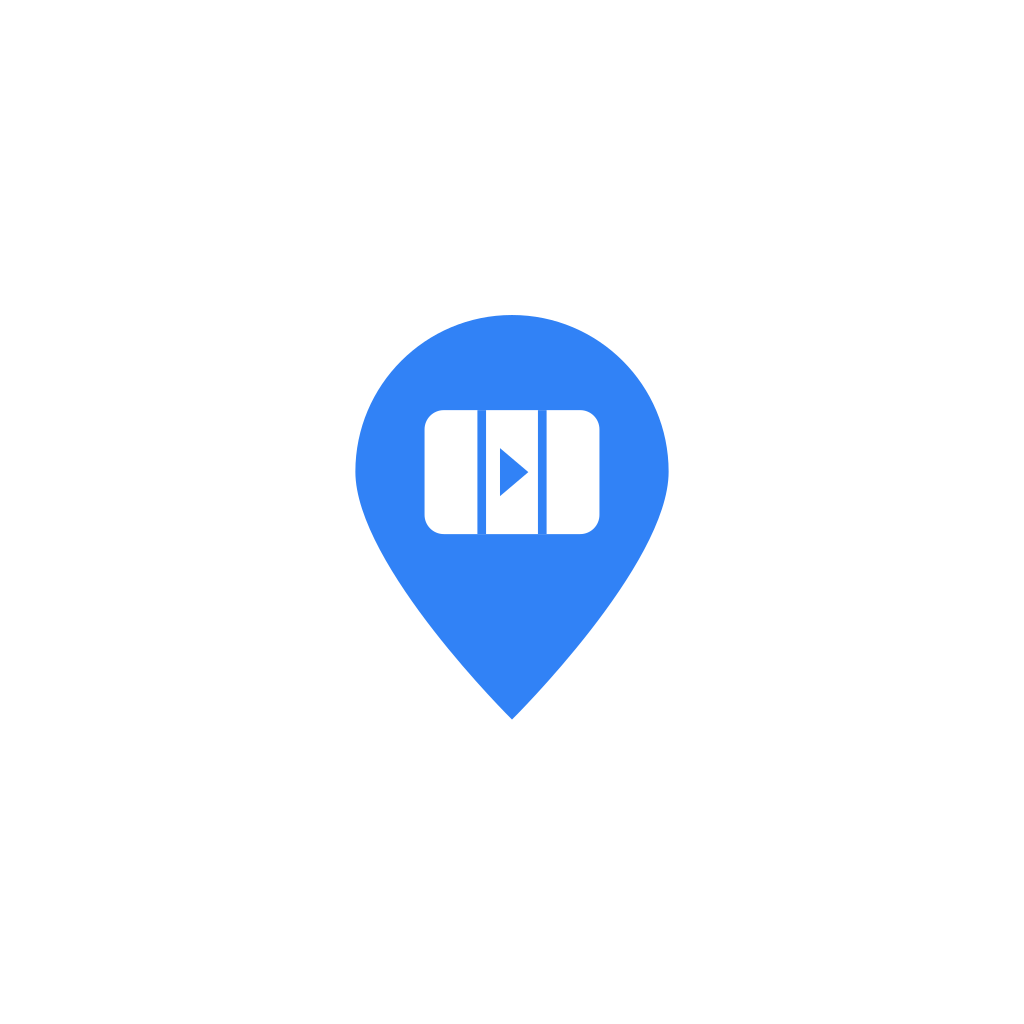
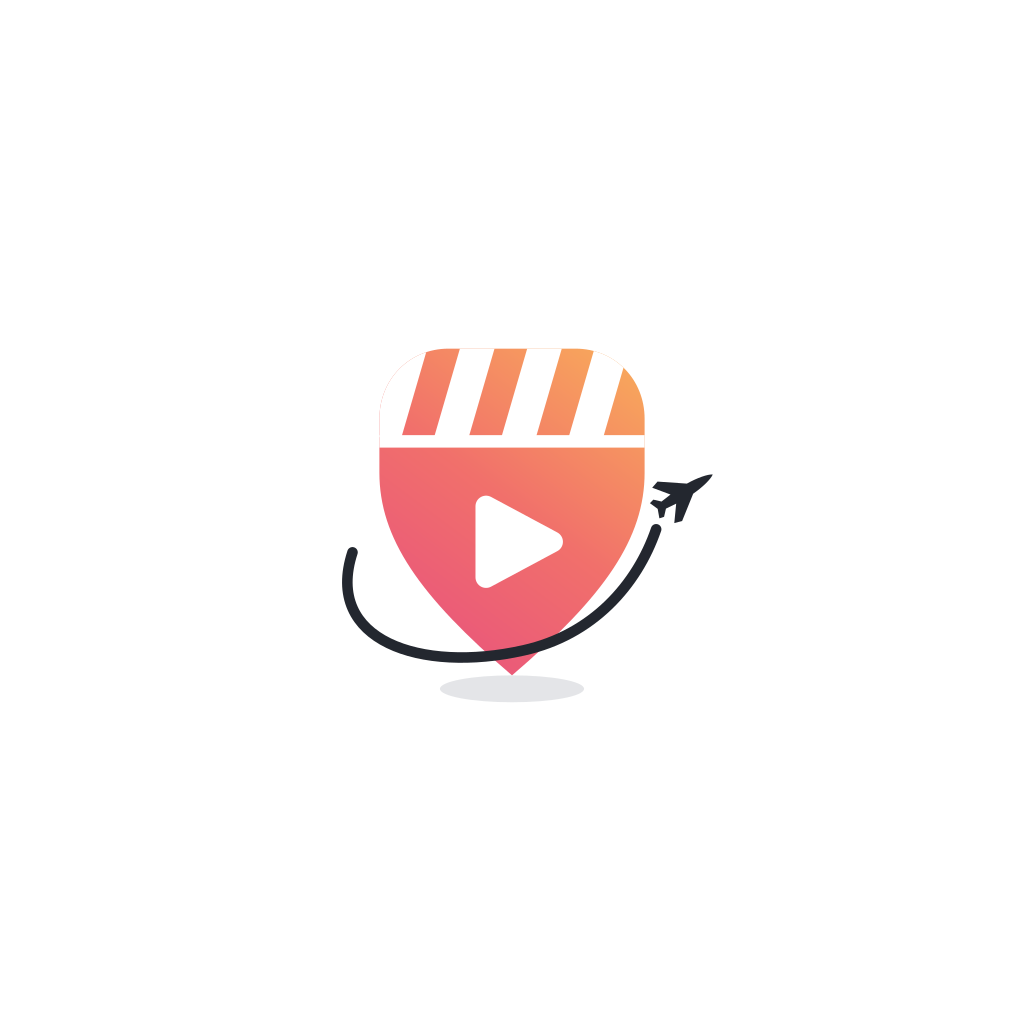
feat(brand): 로고 원본 반영과 브랜드 색 적용
- assets/logo.svg: 클래퍼가 얹힌 핀 + 재생 + 비행기 궤적을 벡터로 재현
  - 슬레이트가 앉도록 핀 윗변을 평평하게 깎고, 클립으로 스트라이프를 잘라냄
- 앱 안 마크(Logo.tsx)도 같은 도형·같은 그라데이션으로 맞춤
- 포인트 색을 토스 블루에서 로고 코랄(#F1706B)로 교체, 회색 위계는 유지
- 로그인 화면에 마크 + ReelSpot 워드마크 + 영문 태그라인 배치

Changed region(s): [[0.3125, 0.2812, 0.6875, 0.7188], [0.3438, 0.5938, 0.375, 0.625]]

diff --git a/src/components/Logo.tsx b/src/components/Logo.tsx
@@ -1,22 +1,74 @@
-import Svg, { Path, Rect } from 'react-native-svg';
+import Svg, {
+  ClipPath,
+  Defs,
+  Ellipse,
+  G,
+  LinearGradient,
+  Path,
+  Rect,
+  Stop,
+} from 'react-native-svg';
 
-import { colors } from '@/theme/theme';
+const PIN =
+  'M512 852C706 686 788 566 788 430L788 318C788 236 726 172 644 172L380 172C298 172 236 236 236 318L236 430C236 566 318 686 512 852Z';
+
+const PLANE =
+  'M110 0C96 -10 60 -18 20 -20L-60 -78L-86 -70L-46 -18L-84 -14L-104 -34L-120 -30L-108 0L-120 30L-104 34L-84 14L-46 18L-86 70L-60 78L20 20C60 18 96 10 110 0Z';
+
+const STRIPES = [
+  'M210 356H282L342 150H270Z',
+  'M350 356H422L482 150H410Z',
+  'M490 356H562L622 150H550Z',
+  'M630 356H702L762 150H690Z',
+];
 
 /**
- * 릴스팟 마크. assets/logo.svg 와 같은 도형을 그린다.
+ * 릴스팟 마크. assets/logo.svg 와 같은 도형이다.
  * 둘 중 하나를 고치면 나머지도 같이 고칠 것.
  */
-export function Logo({ size = 64, color = colors.accent }: { size?: number; color?: string }) {
+export function Logo({ size = 96 }: { size?: number }) {
   return (
     <Svg width={size} height={size} viewBox="0 0 1024 1024" accessibilityLabel="릴스팟">
+      <Defs>
+        <LinearGradient id="pinGradient" x1="280" y1="840" x2="760" y2="200" gradientUnits="userSpaceOnUse">
+          <Stop offset="0" stopColor="#E8517E" />
+          <Stop offset="0.52" stopColor="#F1706B" />
+          <Stop offset="1" stopColor="#F8A85B" />
+        </LinearGradient>
+        <ClipPath id="pinClip">
+          <Path d={PIN} />
+        </ClipPath>
+      </Defs>
+
+      <Ellipse cx={512} cy={880} rx={150} ry={28} fill="#C9CCD1" opacity={0.5} />
+      <Path d={PIN} fill="url(#pinGradient)" />
+
+      <G clipPath="url(#pinClip)">
+        {STRIPES.map((d) => (
+          <Path key={d} d={d} fill="#FFFFFF" />
+        ))}
+        <Rect x={220} y={352} width={584} height={26} fill="#FFFFFF" />
+      </G>
+
       <Path
-        d="M512 944C512 944 838 622 838 428A326 326 0 1 0 186 428C186 622 512 944 512 944Z"
-        fill={color}
+        d="M458 500L458 648L596 574Z"
+        fill="#FFFFFF"
+        stroke="#FFFFFF"
+        strokeWidth={44}
+        strokeLinejoin="round"
       />
-      <Rect x={330} y={300} width={364} height={258} rx={40} fill={colors.bg} />
-      <Rect x={440} y={300} width={18} height={258} fill={color} />
-      <Rect x={566} y={300} width={18} height={258} fill={color} />
-      <Path d="M487 379L546 429L487 479V379Z" fill={color} />
+
+      <Path
+        d="M180 596C120 780 322 848 536 800C680 768 772 664 812 548"
+        stroke="#23272F"
+        strokeWidth={22}
+        strokeLinecap="round"
+        fill="none"
+      />
+
+      <G transform="translate(872 470) rotate(-32) scale(0.62)">
+        <Path d={PLANE} fill="#23272F" />
+      </G>
     </Svg>
   );
 }

diff --git a/app/(auth)/login.tsx b/app/(auth)/login.tsx
@@ -5,7 +5,7 @@ import { useSafeAreaInsets } from 'react-native-safe-area-context';
 import { Logo } from '@/components/Logo';
 import { signInWithKakao } from '@/features/auth/api';
 import { isDemo } from '@/lib/env';
-import { GUTTER, MIN_TOUCH, colors, spacing, type } from '@/theme/theme';
+import { GUTTER, MIN_TOUCH, colors, palette, spacing, type } from '@/theme/theme';
 
 const KAKAO_YELLOW = '#FEE500';
 const KAKAO_PRESSED = '#F0D800';
@@ -34,8 +34,15 @@ export default function LoginScreen() {
   return (
     <View style={[styles.container, { paddingTop: insets.top, paddingBottom: insets.bottom }]}>
       <View style={styles.header}>
-        <Logo size={72} />
-        <Text style={styles.logo}>릴스팟</Text>
+        <Logo size={128} />
+
+        <View>
+          <Text style={styles.wordmark}>
+            <Text style={styles.wordmarkReel}>Reel</Text>
+            <Text style={styles.wordmarkSpot}>Spot</Text>
+          </Text>
+          <Text style={styles.tag}>SPOT THE WORLD, IN REELS</Text>
+        </View>
         <Text style={styles.tagline}>
           같이 간 여행,{'\n'}각자 찍은 순간을 한곳에.
         </Text>
@@ -80,9 +87,25 @@ const styles = StyleSheet.create({
     paddingHorizontal: GUTTER,
     justifyContent: 'space-between',
   },
-  header: { flex: 1, justifyContent: 'center', gap: spacing(5) },
-  logo: { ...type.display, fontSize: 40, lineHeight: 52, color: colors.text, marginTop: spacing(1) },
-  tagline: { ...type.title, fontWeight: '600', color: colors.textMuted, marginTop: -spacing(2) },
+  header: { flex: 1, justifyContent: 'center', alignItems: 'center', gap: spacing(6) },
+  wordmark: { fontSize: 46, fontWeight: '800', letterSpacing: -1.5, textAlign: 'center' },
+  wordmarkReel: { color: palette.ink },
+  wordmarkSpot: { color: colors.accent },
+  // 로고의 영문 태그라인. 자간을 넓혀 원본 느낌을 살린다.
+  tag: {
+    ...type.caption,
+    color: colors.textMuted,
+    letterSpacing: 3,
+    textAlign: 'center',
+    marginTop: spacing(2),
+  },
+  tagline: {
+    ...type.title,
+    fontWeight: '600',
+    color: colors.textMuted,
+    textAlign: 'center',
+    marginTop: spacing(2),
+  },
   bottom: { gap: spacing(4), paddingBottom: spacing(8) },
   error: { ...type.label, color: colors.danger },
   kakao: {

diff --git a/src/theme/theme.ts b/src/theme/theme.ts
@@ -14,9 +14,13 @@ export const palette = {
   gray200: '#E5E8EB',
   gray100: '#F2F4F6',
   gray50: '#F9FAFB',
-  blue600: '#1B64DA',
-  blue500: '#3182F6',
-  blue50: '#E8F3FF',
+  // 로고에서 가져온 브랜드 색 (assets/logo.svg 그라데이션)
+  coral600: '#DC5F5A',
+  coral500: '#F1706B',
+  coral50: '#FDEDEB',
+  pink500: '#E8517E',
+  orange500: '#F8A85B',
+  ink: '#23272F',
   red500: '#F04452',
   white: '#FFFFFF',
 } as const;
@@ -29,9 +33,9 @@ export const colors = {
   text: palette.gray900,
   textBody: palette.gray700,
   textMuted: palette.gray500,
-  accent: palette.blue500,
-  accentPressed: palette.blue600,
-  accentSoft: palette.blue50,
+  accent: palette.coral500,
+  accentPressed: palette.coral600,
+  accentSoft: palette.coral50,
   danger: palette.red500,
   onAccent: palette.white,
 } as const;

diff --git a/README.md b/README.md
@@ -84,7 +84,9 @@ supabase db push
 
 ### 로고
 
-`assets/logo.svg` 가 원본입니다. 고친 뒤 아이콘을 다시 뽑습니다.
+`assets/logo.svg` 가 원본입니다 — 클래퍼가 얹힌 핀, 재생 버튼, 비행기 궤적.
+브랜드 색(핑크 `#E8517E` → 코랄 `#F1706B` → 오렌지 `#F8A85B`)도 여기서 가져왔습니다.
+고친 뒤 아이콘을 다시 뽑습니다.
 
 ```bash
 node scripts/build-icons.mjs
